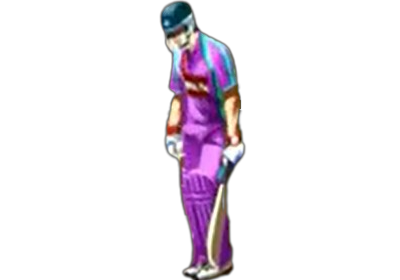
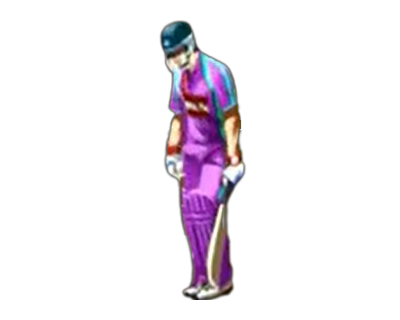
canvas size - change

Changed region(s): [[0.39, 0.0, 0.6, 0.4857], [0.42, 0.5143, 0.63, 1.0]]

diff --git a/sprites.py b/sprites.py
@@ -31,11 +31,11 @@ class BATSMAN(pygame.sprite.Sprite):
         try: self.frame_5 = pygame.image.load(f'graphics/{player}/{action}/frame-5.png').convert_alpha()
         except: self.frame_5 = ""
 
-        self.frame_1 = pygame.transform.scale(self.frame_1, (260,180))
-        self.frame_2 = pygame.transform.scale(self.frame_2, (260,180))
-        self.frame_3 = pygame.transform.scale(self.frame_3, (260,180))
-        self.frame_4 = pygame.transform.scale(self.frame_4, (260,180))
-        if self.frame_5 != "": self.frame_5 = pygame.transform.scale(self.frame_5, (260,180))
+        self.frame_1 = pygame.transform.scale(self.frame_1, (260,210))
+        self.frame_2 = pygame.transform.scale(self.frame_2, (260,210))
+        self.frame_3 = pygame.transform.scale(self.frame_3, (260,210))
+        self.frame_4 = pygame.transform.scale(self.frame_4, (260,210))
+        if self.frame_5 != "": self.frame_5 = pygame.transform.scale(self.frame_5, (260,210))
 
         # animation order
         self.player_index = 0
